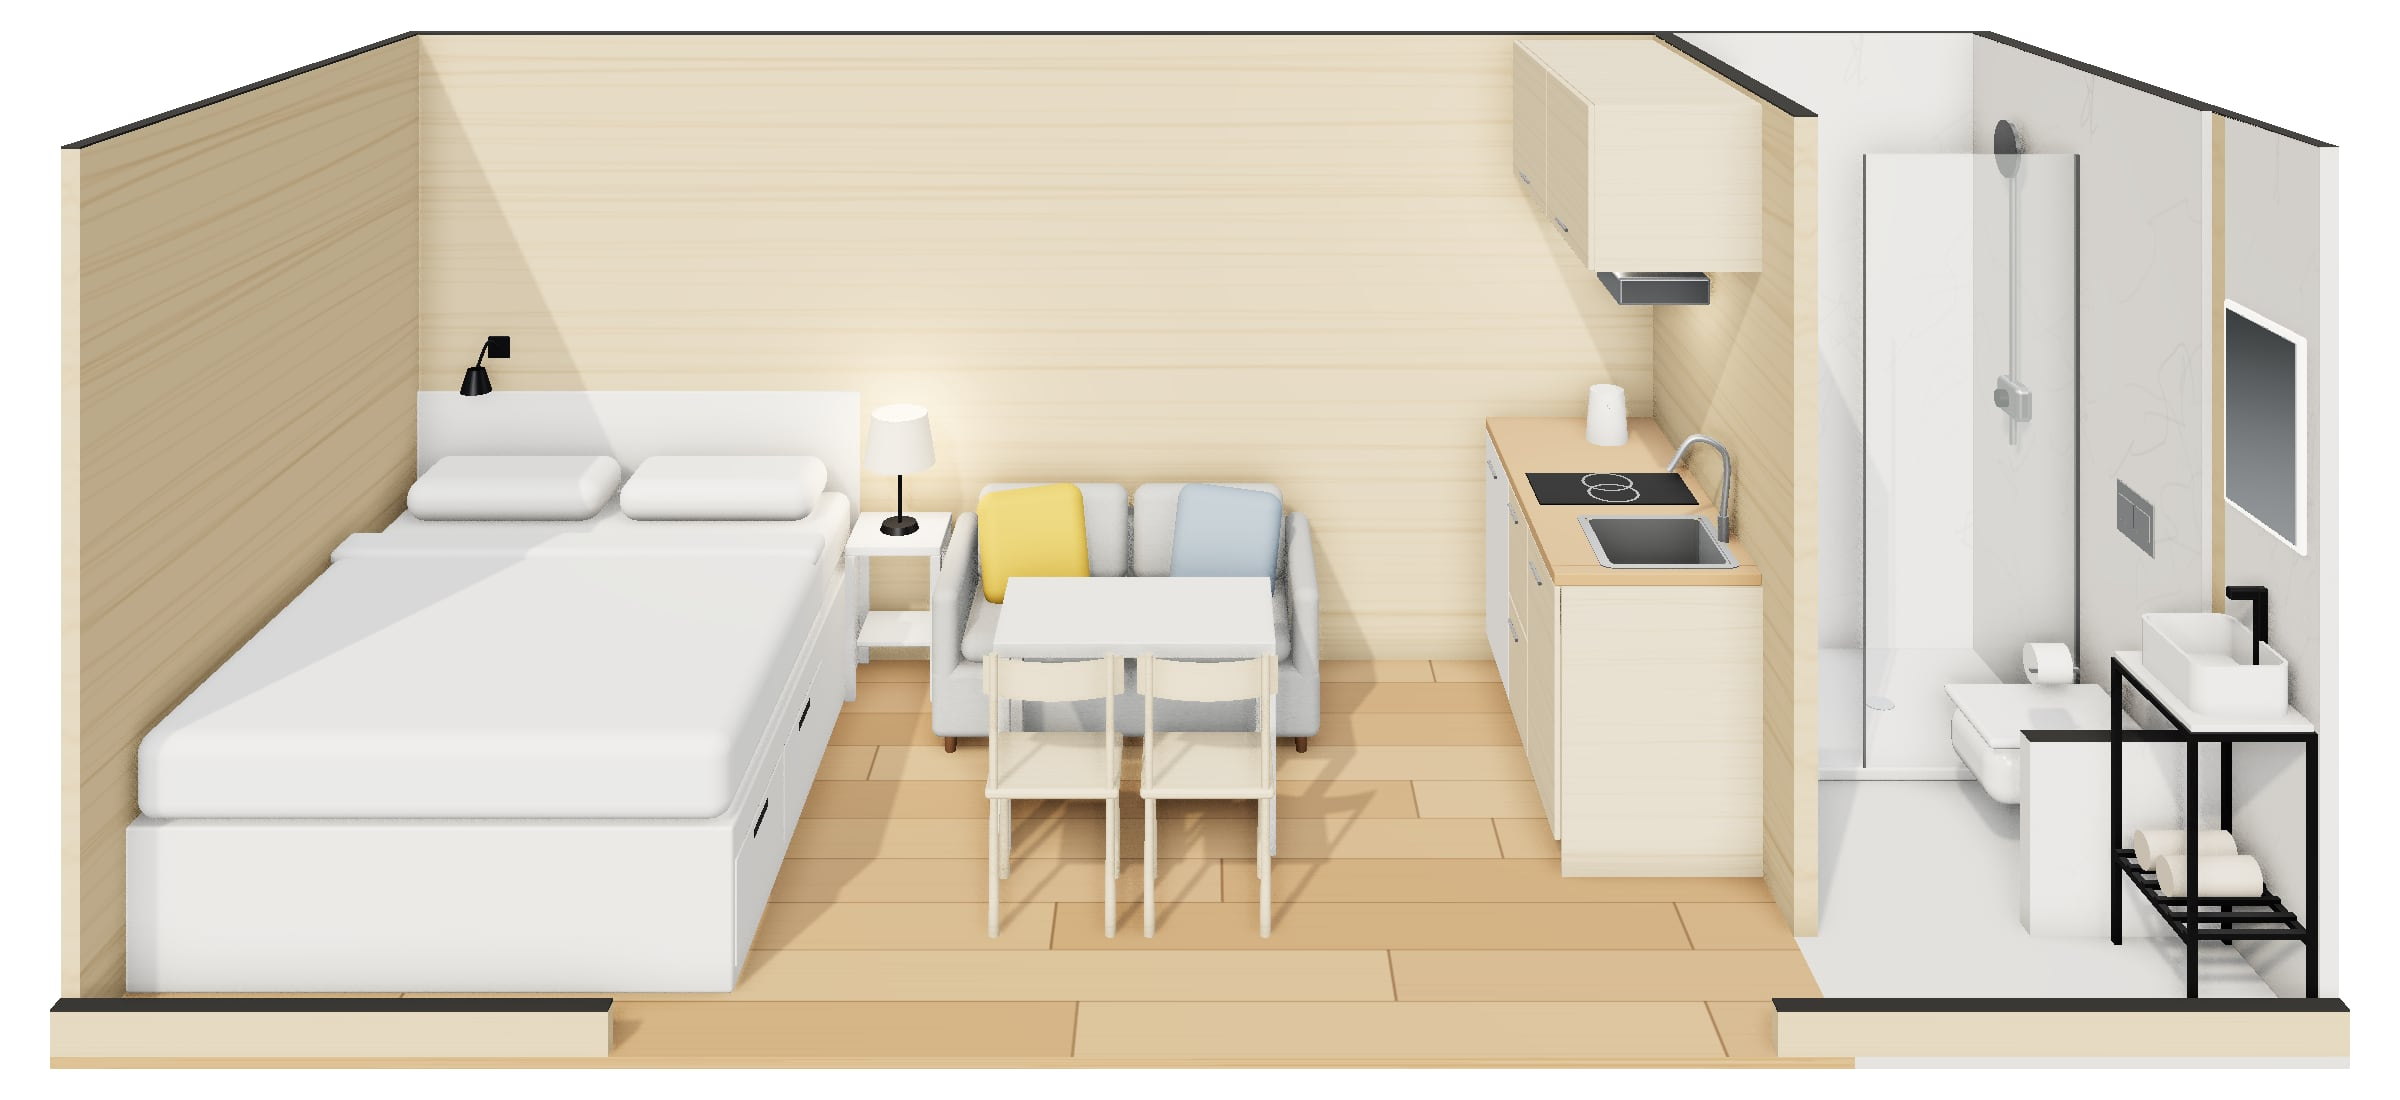
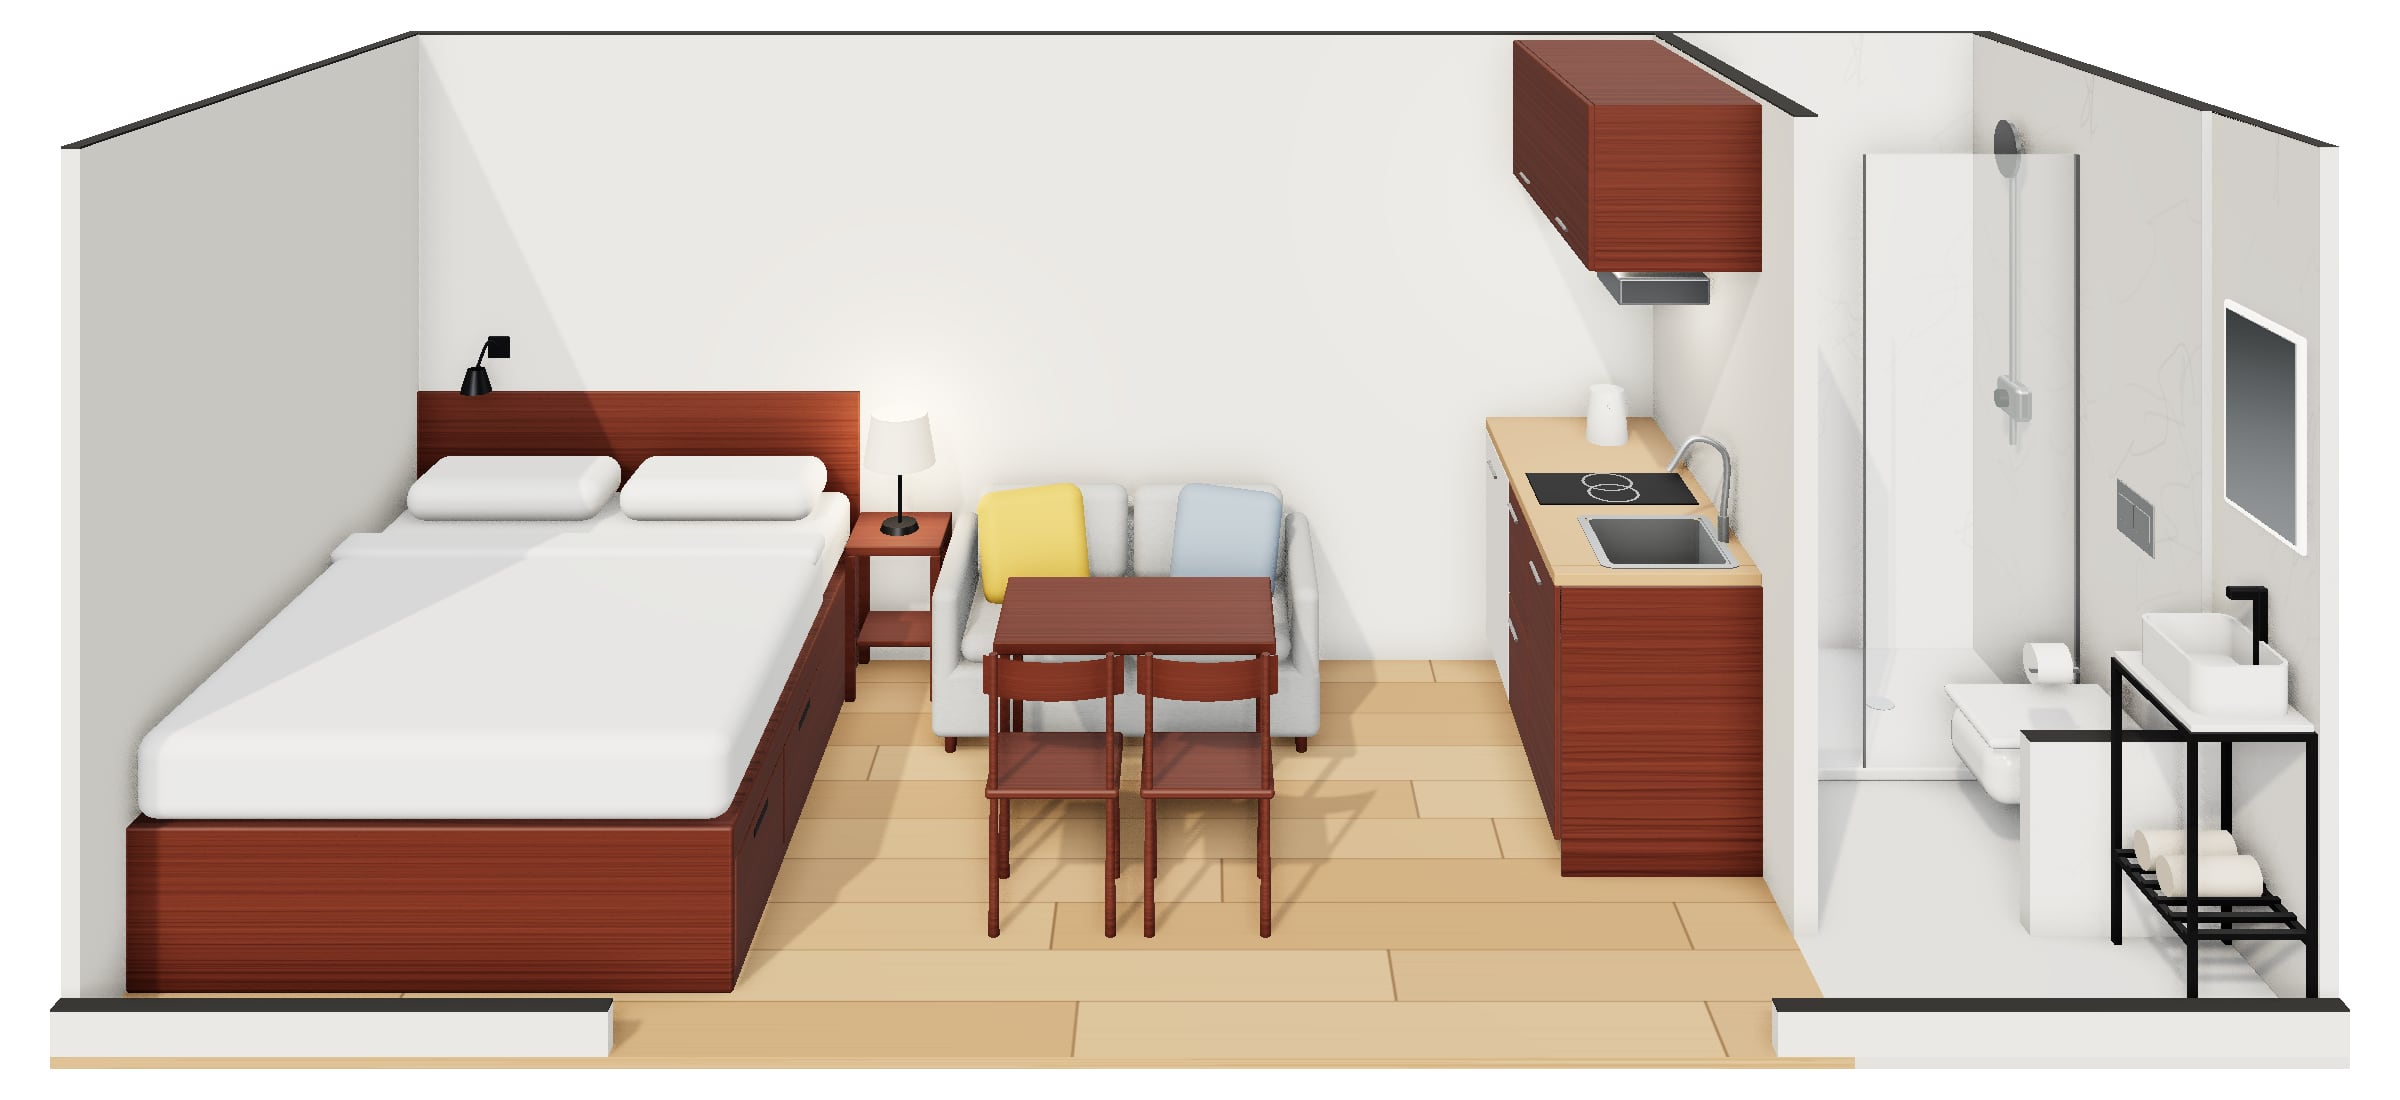
feat(studio): mahogany furniture, off-white walls, slimmer table legs
The joinery (bed, bedside table, table, chairs, galley and overhead
cabinet, sofa legs) takes a natural mahogany-tone stain under satin PU,
and the living linings are painted off-white over a vapour-retarding
primer; the finishes table and the bill of materials say so (a K7
stain line, the K1 paint line). The render shows both, and the seating
table stands on slimmer legs in the drawing and the render.

Claude-Session: https://claude.ai/code/session_01KRyNxX68L5feJKbJnBKRyV

diff --git a/scripts/studio/render/room.html b/scripts/studio/render/room.html
@@ -108,6 +108,19 @@ const T = LINE ? {} : {
       g.stroke()
     }
   }),
+  // natural mahogany: warm red-brown with long, slightly wavy grain and fine pores
+  mahogany: tex((g, w, h) => {
+    g.fillStyle = "#663222"; g.fillRect(0, 0, w, h)
+    for (let i = 0; i < 140; i++) {
+      const y = rnd() * h, dark = rnd() > 0.45
+      g.strokeStyle = dark ? `rgba(52,20,11,${0.15 + rnd() * 0.25})` : `rgba(150,84,58,${0.08 + rnd() * 0.12})`
+      g.lineWidth = 0.6 + rnd() * 2.4
+      g.beginPath(); g.moveTo(0, y)
+      g.bezierCurveTo(w * 0.33, y + (rnd() - 0.5) * 14, w * 0.66, y + (rnd() - 0.5) * 14, w, y + (rnd() - 0.5) * 6)
+      g.stroke()
+    }
+    for (let i = 0; i < 2600; i++) { g.fillStyle = "rgba(40,14,6,0.18)"; g.fillRect(rnd() * w, rnd() * h, 2 + rnd() * 3, 1) }
+  }, 1024, 512),
   // SPC floor planks
   planks: tex((g, w, h) => {
     const tones = ["#c39a6b", "#b98f61", "#c8a274", "#b48a5c", "#bf966a"]
@@ -140,7 +153,8 @@ function mat(name) {
   } else {
     const std = (o) => new THREE.MeshStandardMaterial(o)
     x = {
-      wall: () => std({ map: T.ply, color: "#f1e8da", roughness: 0.8 }),
+      wall: () => std({ color: "#f0ece3", roughness: 0.88 }), // off-white painted linings
+      mahogany: () => std({ map: T.mahogany, roughness: 0.42 }), // natural mahogany-tone joinery
       white: () => std({ color: "#f3f2ee", roughness: 0.55 }),
       ply: () => std({ map: T.ply, roughness: 0.6 }),
       worktop: () => std({ color: "#c4996a", roughness: 0.45 }),
@@ -271,12 +285,12 @@ cutWall(d1, 0, cy0, L, cut, cy1, "marble")
 // ------------------------------------------------------------ bed (MALM look), bedside table, reading lamps
 {
   const x1 = m(S.bed_x1), z0 = m(S.bed_y0), z1 = m(S.bed_y1)
-  box(0, 0, 0, x1, 1.0, z0, "white", 0.008) // tall headboard, straight on the back wall
-  box(0, 0, z0, x1, 0.45, z1, "white", 0.01) // high frame, tight to end A
+  box(0, 0, 0, x1, 1.0, z0, "mahogany", 0.008) // tall headboard, straight on the back wall
+  box(0, 0, z0, x1, 0.45, z1, "mahogany", 0.01) // high frame, tight to end A
   // two storage boxes in the room side, each front with a finger-pull slot
   for (const [da, db] of S.drawers) {
     const a = m(da) + 0.003, b = m(db) - 0.003
-    box(x1, 0.062, a, x1 + 0.006, 0.35, b, "white", 0.004)
+    box(x1, 0.062, a, x1 + 0.006, 0.35, b, "mahogany", 0.004)
     box(x1 + 0.004, 0.296, (a + b) / 2 - 0.09, x1 + 0.0068, 0.322, (a + b) / 2 + 0.09, LINE ? "white" : "black", 0.004)
   }
   box(0.025, 0.45, z0 + 0.02, x1 - 0.025, 0.65, 0.66, "linen", 0.05) // mattress, seen at the head
@@ -286,9 +300,9 @@ cutWall(d1, 0, cy0, L, cut, cy1, "marble")
   // bedside table (LACK look): thick top, thick legs, a lower shelf
   const [bx0_, , bz0_, bx1_, bh, bz1_] = L3(S.bedside)
   const lg = 0.036
-  box(bx0_, bh - 0.035, bz0_, bx1_, bh, bz1_, "white", 0.006)
-  for (const lx of [bx0_, bx1_ - lg]) for (const lz of [bz0_, bz1_ - lg]) box(lx, 0, lz, lx + lg, bh - 0.035, lz + lg, "white", 0.003)
-  box(bx0_ + lg, 0.18, bz0_ + lg, bx1_ - lg, 0.198, bz1_ - lg, "white", 0.003)
+  box(bx0_, bh - 0.035, bz0_, bx1_, bh, bz1_, "mahogany", 0.006)
+  for (const lx of [bx0_, bx1_ - lg]) for (const lz of [bz0_, bz1_ - lg]) box(lx, 0, lz, lx + lg, bh - 0.035, lz + lg, "mahogany", 0.003)
+  box(bx0_ + lg, 0.18, bz0_ + lg, bx1_ - lg, 0.198, bz1_ - lg, "mahogany", 0.003)
   // reading lamp on it: round base, thin stem, linen drum shade
   const [lx0, ly0, lz0, lx1, ly1, lz1] = L3(S.lamp)
   const lcx = (lx0 + lx1) / 2, lcz = (lz0 + lz1) / 2
@@ -316,7 +330,7 @@ cutWall(d1, 0, cy0, L, cut, cy1, "marble")
 {
   const [sx0, , sz0, sx1, sh, sz1] = L3(S.sofa)
   const arm = 0.09, legH = 0.06
-  for (const lx of [sx0 + 0.06, sx1 - 0.06]) for (const lz of [sz0 + 0.06, sz1 - 0.06]) cyl(lx, legH / 2, lz, 0.018, legH, "wood", "y", 20, 0.022)
+  for (const lx of [sx0 + 0.06, sx1 - 0.06]) for (const lz of [sz0 + 0.06, sz1 - 0.06]) cyl(lx, legH / 2, lz, 0.018, legH, "mahogany", "y", 20, 0.022)
   box(sx0, legH, sz0, sx1, 0.3, sz1, "fabric", 0.035) // base
   box(sx0, legH, sz0, sx0 + arm, 0.56, sz1, "fabric", 0.04) // arms
   box(sx1 - arm, legH, sz0, sx1, 0.56, sz1, "fabric", 0.04)
@@ -334,21 +348,23 @@ cutWall(d1, 0, cy0, L, cut, cy1, "marble")
   c2.position.set(sx1 - arm - 0.22, 0.56, sz0 + 0.34); c2.rotation.set(-0.35, -0.25, -0.12)
 
   const [tx0, , tz0, tx1, th, tz1] = L3(S.table)
-  const leg = 0.05
-  box(tx0, th - 0.05, tz0, tx1, th, tz1, "white", 0.006) // thick LACK-style top
-  for (const lx of [tx0, tx1 - leg]) for (const lz of [tz0, tz1 - leg]) box(lx, 0, lz, lx + leg, th - 0.05, lz + leg, "white", 0.004)
+  const leg = 0.028, top = 0.04 // slim legs under a solid top
+  box(tx0, th - top, tz0, tx1, th, tz1, "mahogany", 0.006)
+  for (const lx of [tx0 + 0.02, tx1 - 0.02 - leg]) for (const lz of [tz0 + 0.02, tz1 - 0.02 - leg]) {
+    box(lx, 0, lz, lx + leg, th - top, lz + leg, "mahogany", 0.003)
+  }
 
   for (const c of S.chairs) {
     const [cx0, , cz0, cx1, ch, cz1] = L3(c)
     const seatY = 0.42
-    box(cx0 + 0.01, seatY - 0.03, cz0 + 0.01, cx1 - 0.01, seatY, cz1 - 0.04, "ply", 0.012) // seat
+    box(cx0 + 0.01, seatY - 0.03, cz0 + 0.01, cx1 - 0.01, seatY, cz1 - 0.04, "mahogany", 0.012) // seat
     for (const lx of [cx0 + 0.035, cx1 - 0.035]) for (const lz of [cz0 + 0.04, cz1 - 0.06]) {
-      cyl(lx, (seatY - 0.03) / 2, lz, 0.016, seatY - 0.03, "ply", "y", 20, 0.012) // tapered legs
+      cyl(lx, (seatY - 0.03) / 2, lz, 0.016, seatY - 0.03, "mahogany", "y", 20, 0.012) // tapered legs
     }
-    for (const lx of [cx0 + 0.035, cx1 - 0.035]) cyl(lx, seatY + (ch - seatY) / 2, cz1 - 0.05, 0.012, ch - seatY, "ply")
+    for (const lx of [cx0 + 0.035, cx1 - 0.035]) cyl(lx, seatY + (ch - seatY) / 2, cz1 - 0.05, 0.012, ch - seatY, "mahogany")
     // curved back rail: a slice of a cylinder, bowing toward the table
     // (the arc's apex sits on the rear posts, its ends curve forward around the sitter)
-    const rail = add(new THREE.CylinderGeometry(0.42, 0.42, 0.11, 40, 1, true, -0.5, 1.0), "ply")
+    const rail = add(new THREE.CylinderGeometry(0.42, 0.42, 0.11, 40, 1, true, -0.5, 1.0), "mahogany")
     rail.material = rail.material.clone(); rail.material.side = THREE.DoubleSide
     rail.position.set((cx0 + cx1) / 2, ch - 0.08, cz1 - 0.05 - 0.42)
   }
@@ -359,14 +375,14 @@ cutWall(d1, 0, cy0, L, cut, cy1, "marble")
   const gx = m(S.galley_x0), wt = 0.62, run = m(S.sink[1])
   const fr0 = m(S.fridge[0]), fr1 = m(S.fridge[1]), hb0 = m(S.hob[0]), hb1 = m(S.hob[1]), sk0 = m(S.sink[0])
   box(gx + 0.04, 0, 0, px0, 0.1, run, "black") // plinth, set back
-  box(gx, 0.1, 0, px0, 0.862, sk0, "ply") // carcasses
-  box(gx, 0.1, sk0, px0, 0.7, run, "ply") // the sink base stops under the bowl
-  box(gx, 0, run, px0, 0.862, run + 0.012, "ply") // galley end panel (K7)
+  box(gx, 0.1, 0, px0, 0.862, sk0, "mahogany") // carcasses
+  box(gx, 0.1, sk0, px0, 0.7, run, "mahogany") // the sink base stops under the bowl
+  box(gx, 0, run, px0, 0.862, run + 0.012, "mahogany") // galley end panel (K7)
   // fronts with shadow gaps: fridge door (white), two hob drawers, the sink door; bar handles
   const front = (z0, z1, y0, y1, name) => box(gx - 0.019, y0, z0 + 0.002, gx - 0.001, y1, z1 - 0.002, name, 0.004)
   front(fr0, fr1, 0.1, 0.858, "white")
-  front(hb0, hb1, 0.1, 0.476, "ply"); front(hb0, hb1, 0.482, 0.858, "ply")
-  front(sk0, run, 0.1, 0.858, "ply")
+  front(hb0, hb1, 0.1, 0.476, "mahogany"); front(hb0, hb1, 0.482, 0.858, "mahogany")
+  front(sk0, run, 0.1, 0.858, "mahogany")
   const bar = (y, z0, z1) => cyl(gx - 0.035, y, (z0 + z1) / 2, 0.006, Math.min(0.16, z1 - z0 - 0.08), "steel", "z", 16)
   bar(0.8, fr0, fr1); bar(0.43, hb0, hb1); bar(0.82, hb0, hb1); bar(0.8, sk0, run)
   // induction hob: black glass with two rings
@@ -397,11 +413,11 @@ cutWall(d1, 0, cy0, L, cut, cy1, "marble")
   add(new THREE.TubeGeometry(curve, 40, 0.011, 16, false), "steel")
   // overhead cabinet with two doors, and the hood under it
   const [ox0, oy0, oz0, ox1, oy1, oz1] = L3(S.overhead)
-  box(ox0 + 0.02, oy0, oz0, ox1, oy1, oz1, "ply")
+  box(ox0 + 0.02, oy0, oz0, ox1, oy1, oz1, "mahogany")
   const half = (oz1 - oz0) / 2
   for (let i = 0; i < 2; i++) {
     const z0 = oz0 + i * half
-    box(ox0, oy0 + 0.002, z0 + 0.002, ox0 + 0.02, oy1 - 0.002, z0 + half - 0.002, "ply", 0.004)
+    box(ox0, oy0 + 0.002, z0 + 0.002, ox0 + 0.02, oy1 - 0.002, z0 + half - 0.002, "mahogany", 0.004)
     cyl(ox0 - 0.015, oy0 + 0.06, z0 + half / 2, 0.006, 0.16, "steel", "z", 16)
   }
   const [hdx0, hdy0, hdz0, hdx1, hdy1, hdz1] = L3(S.hood)

diff --git a/scripts/studio/kits.py b/scripts/studio/kits.py
@@ -149,8 +149,8 @@ def k1_lining(lo: Layout) -> Kit:
                  round(lo.part_x0 * lo.W / 1e6 * 1.08, 1), "m2", "spc", Box(0, 0, -5, lo.part_x0, lo.W, 0),
                  step="S05", layer="envelope", color="floor"))
     k.buy(Bought("K1-RUST", "Rust converter + zinc primer for steel", "K1", "finishes", "painting", 4, "L", "primer"))
-    k.buy(Bought("K1-VARN", "Vapour-retarding PU varnish for linings", "K1", "finishes", "painting", 10, "L",
-                 "varnish"))
+    k.buy(Bought("K1-VARN", "Vapour-retarding primer + off-white paint for the linings", "K1", "finishes", "painting",
+                 10, "L", "varnish"))
     return k
 
 
@@ -457,6 +457,8 @@ def k7_trims(lo: Layout) -> Kit:
                Box(X - 530, 0, 2300, X - 518, run, lo.H), step="S18"))
     k.add(Part("K7-20", "Galley end panel (scribed to the floor on site)", "K7", "PLY12",
                Box(X - GALLEY_D, run, 0, X, run + 12, 900 - 38), step="S18"))
+    k.buy(Bought("K7-STAIN", "Joinery finish: natural mahogany-tone stain + satin PU varnish (all furniture)", "K7",
+                 "finishes", "painting", 6, "L", "stain", step="S18"))
     k.steps.append(Step("S18", "K7", "Scribe and pin the trims; caulk and paint", [p.id for p in k.parts],
                         {"F": 60}, 1))
     return k

diff --git a/scripts/studio/prices.py b/scripts/studio/prices.py
@@ -64,6 +64,7 @@ PRICES: dict[str, tuple[float, str, str, str]] = {
     "sofa": (450_000, "A", "AS-21", "compact two-seat sofa, washable covers"),
     "wcframe": (220_000, "A", "AS-21", "slim concealed cistern frame + dual-flush plate"),
     "lamp": (35_000, "A", "AS-21", "table lamp with linen shade, LED bulb"),
+    "stain": (14_000, "A", "AS-21", "mahogany-tone wood stain + satin PU varnish, per L"),
     "stairframe": (450_000, "A", "AS-21", "stringers, handrails, footings"),
 }
 

diff --git a/study/studio/studio-design.md b/study/studio/studio-design.md
@@ -48,10 +48,10 @@ The 3D drawing and the realistic image on the studio page are rendered from the 
 
 | Surface | Finish | Why |
 |---|---|---|
-| Walls and ceiling (living) | 12 mm ply, light PU varnish (vapour-retarding) | Warm, durable, repairable; seals the insulation from room air |
+| Walls and ceiling (living) | 12 mm ply, vapour-retarding primer and off-white paint | Light and calm; the primer seals the insulation from room air; repaintable |
 | Floor (living) | Epoxy seal over the treated container floor, then 5 mm SPC | The original floor is insecticide-treated; never sand it [V STU-07] |
 | Bathroom walls | Cement board, liquid membrane, ceramic tiles | Fully waterproof; easy to clean between guests |
 | Bathroom floor | Safety vinyl coved 100 mm up the walls, low-profile tray | No joints at the floor; the tray keeps IP zone 1 small [V STU-38] |
-| Furniture | 18 mm ply or MR melamine board, ABS edges; marine ply in the bathroom | Whatever Kigali stocks; both are drawn |
+| Furniture | 18 mm ply (or MR board) with a natural mahogany-tone stain under a satin PU varnish, ABS edges; marine ply in the bathroom | Warm wood against off-white walls; ply takes stain evenly and is sold in Kigali |
 | Worktop | 38 mm laminate or hardwood | Field check (AS-24) |
 | Outside | Existing paint kept; steelwork for the roof painted to match | Founder did not ask for a repaint |
